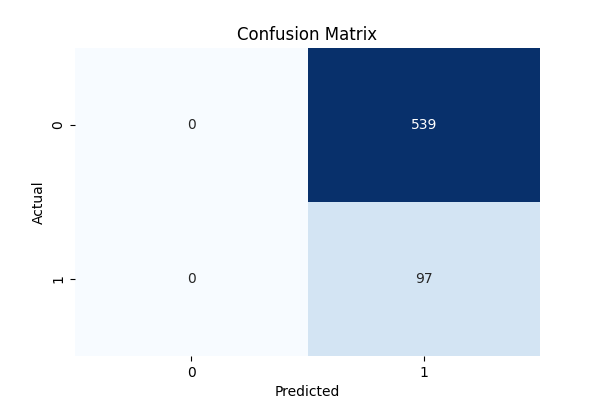
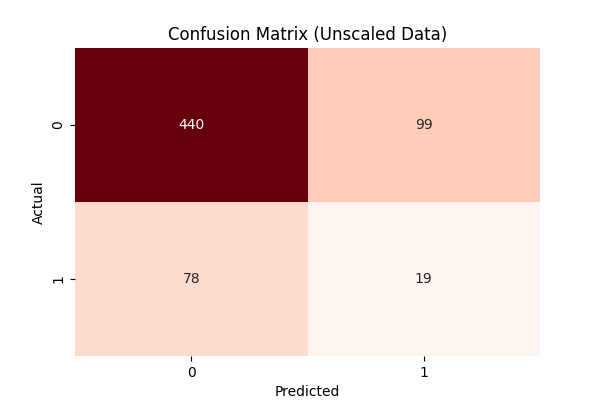
C correct

diff --git a/A1/Q2/C.py b/A1/Q2/C.py
@@ -3,11 +3,11 @@ import pandas as pd
 import matplotlib.pyplot as plt
 from sklearn.model_selection import train_test_split
 from sklearn.metrics import confusion_matrix, precision_score, recall_score, f1_score, roc_auc_score
-# import os
+import os
 import seaborn as sns
 
-# confusion_matrix_plot = 'Plots/'
-# os.makedirs(confusion_matrix_plot, exist_ok=True)
+confusion_matrix_plot = 'Plots/'
+os.makedirs(confusion_matrix_plot, exist_ok=True)
 
 df = pd.read_csv('Heart Disease.csv')
 
@@ -94,24 +94,51 @@ recall = recall_score(y_val, y_val_pred)
 f1 = f1_score(y_val, y_val_pred)
 roc_auc = roc_auc_score(y_val, y_val_pred_probs)
 
-train_accuracy = (y_train == (predict(X_train_unscaled, weights_no_scale, bias_no_scale) >= 0.5).astype(int)).mean()
-val_accuracy = (y_val == (predict(X_val_unscaled, weights_no_scale, bias_no_scale) >= 0.5).astype(int)).mean()
-# test_accuracy = (y_test == (predict(X_test_scaled, weights_minmax, bias_minmax) >= 0.5).astype(int)).mean()
-
+print("Results for Min-Max Scaled Data:")
 print("Confusion Matrix:\n", conf_matrix)
 print(f"Precision: {precision}")
 print(f"Recall: {recall}")
 print(f"F1 Score: {f1}")
 print(f"ROC-AUC Score: {roc_auc}")
 
-print(f"Training Accuracy: {train_accuracy}")
-print(f"Validation Accuracy: {val_accuracy}")
-# print(f"Testing Accuracy: {test_accuracy}")
+train_accuracy_scaled = (y_train == (predict(X_train_scaled, weights_minmax, bias_minmax) >= 0.5).astype(int)).mean()
+val_accuracy_scaled = (y_val == (predict(X_val_scaled, weights_minmax, bias_minmax) >= 0.5).astype(int)).mean()
+print(f"Training Accuracy (Scaled): {train_accuracy_scaled}")
+print(f"Validation Accuracy (Scaled): {val_accuracy_scaled}")
+print("\n")
+
+y_val_pred_probs_unscaled = predict(X_val_unscaled, weights_no_scale, bias_no_scale)
+y_val_pred_unscaled = (y_val_pred_probs_unscaled >= 0.5).astype(int)
+
+conf_matrix_unscaled = confusion_matrix(y_val, y_val_pred_unscaled)
+precision_unscaled = precision_score(y_val, y_val_pred_unscaled)
+recall_unscaled = recall_score(y_val, y_val_pred_unscaled)
+f1_unscaled = f1_score(y_val, y_val_pred_unscaled)
+roc_auc_unscaled = roc_auc_score(y_val, y_val_pred_probs_unscaled)
+
+print("Results for Unscaled Data:")
+print("Confusion Matrix (Unscaled):\n", conf_matrix_unscaled)
+print(f"Precision (Unscaled): {precision_unscaled}")
+print(f"Recall (Unscaled): {recall_unscaled}")
+print(f"F1 Score (Unscaled): {f1_unscaled}")
+print(f"ROC-AUC Score (Unscaled): {roc_auc_unscaled}")
+
+train_accuracy_unscaled = (y_train == (predict(X_train_unscaled, weights_no_scale, bias_no_scale) >= 0.5).astype(int)).mean()
+val_accuracy_unscaled = (y_val == (predict(X_val_unscaled, weights_no_scale, bias_no_scale) >= 0.5).astype(int)).mean()
+print(f"Training Accuracy (Unscaled): {train_accuracy_unscaled}")
+print(f"Validation Accuracy (Unscaled): {val_accuracy_unscaled}")
 
 plt.figure(figsize=(6, 4))
 sns.heatmap(conf_matrix, annot=True, fmt="d", cmap="Blues", cbar=False)
-plt.title("Confusion Matrix")
+plt.title("Confusion Matrix (Scaled Data)")
 plt.xlabel("Predicted")
 plt.ylabel("Actual")
-# plt.savefig(os.path.join(confusion_matrix_plot, "confusion_matrix_plot.png"))
+plt.show()
+
+plt.figure(figsize=(6, 4))
+sns.heatmap(conf_matrix_unscaled, annot=True, fmt="d", cmap="Reds", cbar=False)
+plt.title("Confusion Matrix (Unscaled Data)")
+plt.xlabel("Predicted")
+plt.ylabel("Actual")
+plt.savefig(os.path.join(confusion_matrix_plot, "confusion_matrix_plot.png"))
 plt.show()
